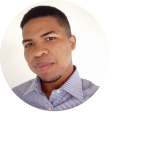
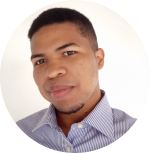
Implementa componente para títulos

diff --git a/components/Title.jsx b/components/Title.jsx
@@ -1,0 +1,36 @@
+import Image from "next/image";
+import Link from "next/link";
+
+export function Title ({content, isTag}){
+  if (isTag){
+    return (
+      <section className="title-content">
+        <div>
+          <h1 className='title'> 
+            { content.title }
+          </h1>
+          <span className='date'> 
+            { content.date } 
+          </span>
+        </div>
+      </section>
+    );
+  }
+  else {
+    return (
+      <section className="title-content">
+        <Image src={`${content.tag}.svg`} alt="Icono del Tema" width={50} height={50} />
+        <div>
+          <h1 className='title'> 
+            { content.title }
+          </h1>
+          <span className='date'> 
+            { content.date +' ' } 
+            • { content.reading } minutos de lectura 
+            • <Link href={ `https://github.com/achique-luisdan/blog.achique.luisdan/blob/main/posts/${content.slug}.mdx`} target="_blank">¿Una errata o sugerencia? Edita el artículo</Link>
+          </span>
+        </div>
+      </section>
+    );
+  }
+}

diff --git a/pages/[slug].jsx b/pages/[slug].jsx
@@ -2,20 +2,22 @@ import { MDXRemote } from "next-mdx-remote";
 import Posts from "../components/Posts";
 import Head from 'next/head';
 import { getFileBySlug, getAllFilesMetadata } from "../utils/reader-mdx";
-
+import { Title } from "../components/Title";
 
 export default function Post ({source, frontmatter, posts}) {
+  console.log (frontmatter);
   return (
     <>
       <Head>
         <title>{frontmatter.title}</title>
         <meta name="description" content={frontmatter.description} />
         <meta name="viewport" content="width=device-width, initial-scale=1" />
-        <link rel="icon" href="/favicon.ico" />
+        <link rel="shortcut icon"  href="/favicon.png" />
       </Head>
       
-      <main className="container">
-        <MDXRemote { ...source}  />
+      <main className="content">
+        <Title content={frontmatter} isTag={ frontmatter.tag === 'is' }/>
+        <MDXRemote { ...source} />
         <Posts posts={posts}/>
       </main>
     </>

diff --git a/styles/globals.css b/styles/globals.css
@@ -132,7 +132,7 @@ li {
 a.to-post {
     display: flex;
     width: 100%;
-    gap: 10px;
+    gap: 14px;
     padding: 1%;
     padding-left: 30px;
 }
@@ -251,8 +251,8 @@ main {
 }
 
 ::-webkit-scrollbar {
-    width: 5px;
-    height: 5px;
+    width: 10px;
+    height: 10px;
   }
   
   ::-webkit-scrollbar-track {
@@ -290,4 +290,29 @@ ul.posts {
 
 span.doctype-tag, span.name {
     color: white;
+}
+
+section.title-content {
+    margin-top: 10px;
+    margin-bottom: 30px;
+    display: flex;
+    align-items: center;
+    gap: 12px
+}
+
+section.title-content > div {
+    display: flex;
+    flex-direction: column;
+}
+
+section.title-content > div > h1.title {
+    margin-top: 2px;
+    margin-bottom: 2px;
+}
+
+main.content {
+    padding-top: 2%;
+    padding-left: 12%;
+    padding-right: 12%;
+    padding-bottom: 2%;
 }

diff --git a/pages/index.jsx b/pages/index.jsx
@@ -12,7 +12,7 @@ export default function Home({ posts, tags }) {
         <title>Achique Luis Daniel🍊 | Frontend, Planificación y Autocuidado</title>
         <meta name="description" content="Blog sobre Desarrollo Web Frontend, Planificación y Autocuidado" />
         <meta name="viewport" content="width=device-width, initial-scale=1" />
-        <link rel="icon" href="/favicon.ico" />
+        <link rel="shortcut icon"  href="/favicon.png" />
       </Head>
       
       <main className="container home">
@@ -41,6 +41,10 @@ export async function getStaticProps(){
     {
       name: 'CSS',
       slug: 'css'
+    },
+    {
+      name: 'JavaScript',
+      slug: 'javascript'
     },
   ];
   tags.map (tag => {

diff --git a/pages/todos.jsx b/pages/todos.jsx
@@ -10,10 +10,10 @@ export default function Todos({ posts }) {
         <title>Achique Luis Daniel🍊 | Frontend, Planificación y Autocuidado</title>
         <meta name="description" content="Blog sobre Desarrollo Web Frontend, Planificación y Autocuidado" />
         <meta name="viewport" content="width=device-width, initial-scale=1" />
-        <link rel="icon" href="/favicon.ico" />
+        <link rel="icon" href="/favicon.png" />
       </Head>
       
-      <main className="container">
+      <main className="content">
         <h1> Todos los Artículos </h1>
         <Posts posts={posts} all="true"></Posts>
       </main>

diff --git a/components/Sidebar.jsx b/components/Sidebar.jsx
@@ -5,7 +5,7 @@ export function Sidebar ({tags}){
   return (
     <aside className="sidebar">
       <div>
-        <Image src={'/photo.png'} width={100} height={100} alt={'Foto'} />
+        <Image src={'/photo.png'} width={150} height={150} alt={'Foto'} />
       </div>
       <h2>
         <p>

diff --git a/components/Header.jsx b/components/Header.jsx
@@ -11,7 +11,7 @@ export function Header (){
             <p>Luis Daniel</p>
           </span>
           <span className="blog">
-              BLOG
+            BLOG
           </span>
         </Link>
         <div className="box-search">

diff --git a/pages/_document.jsx b/pages/_document.jsx
@@ -5,7 +5,7 @@ import { Footer } from '../components/Footer';
 
 export default function Document() {
   return (
-    <Html lang="en">
+    <Html lang="es">
       <Head />
       <body>
         <Header />
